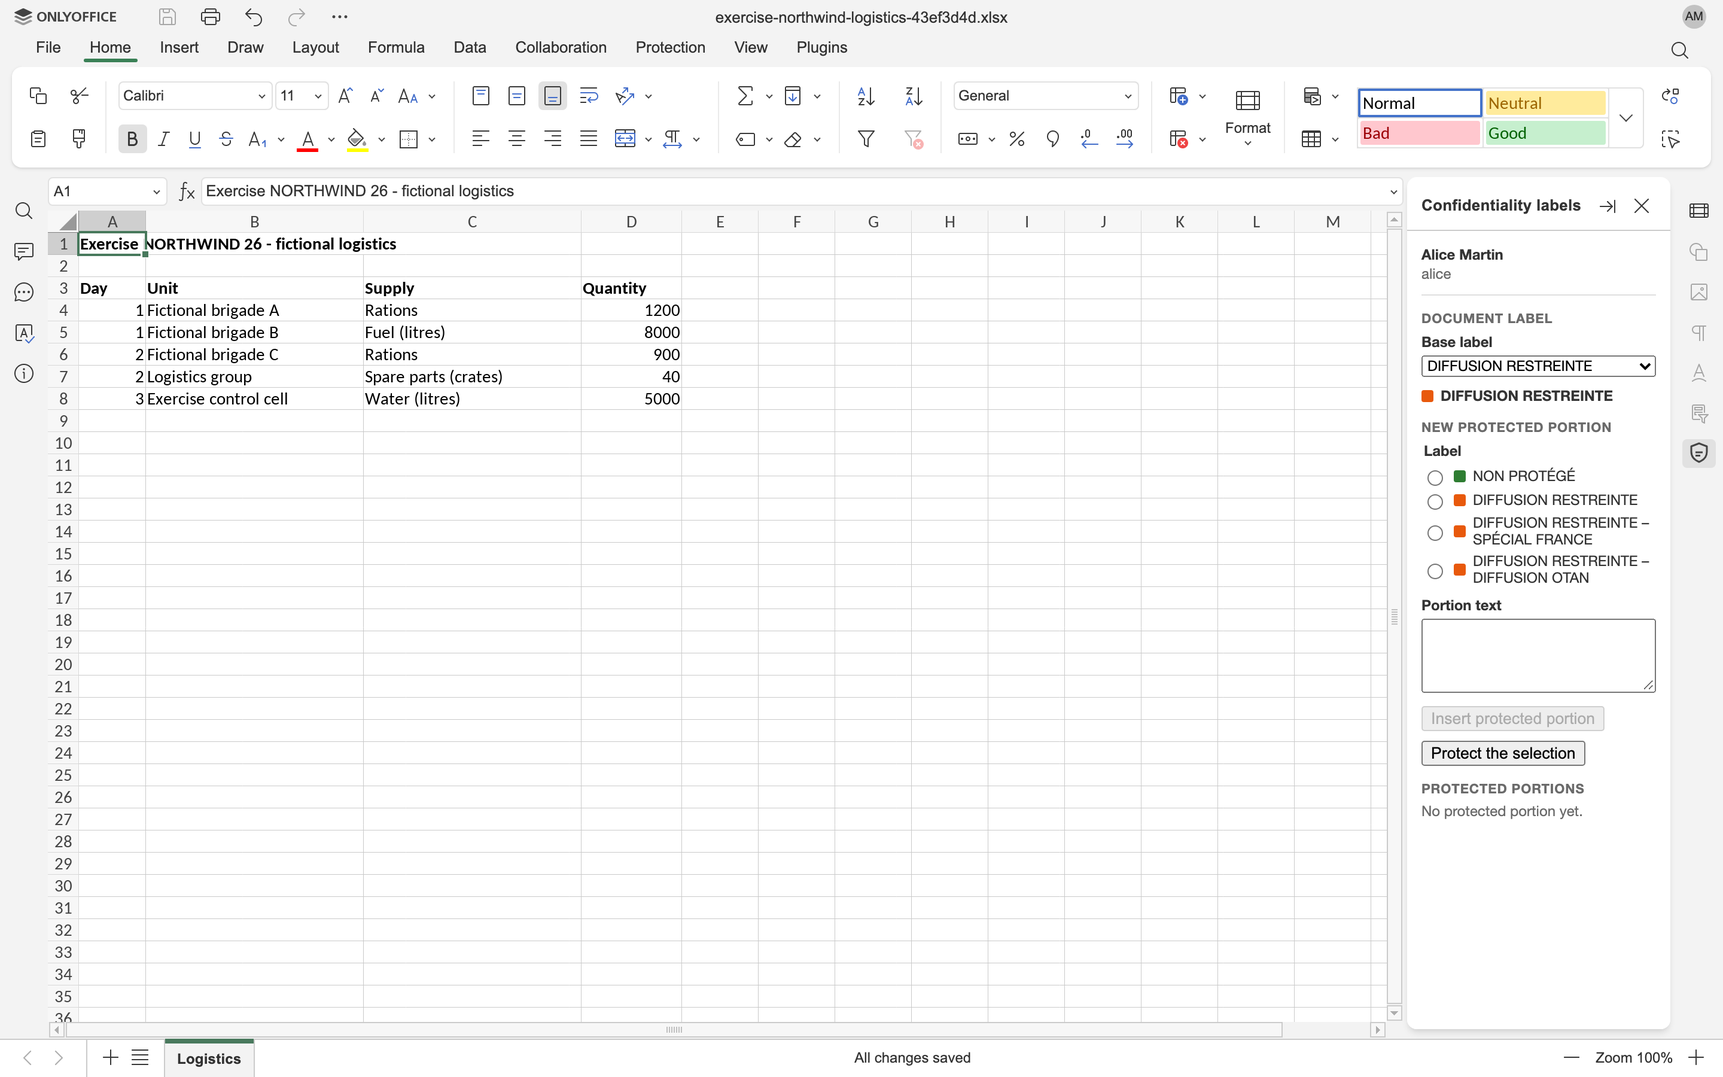
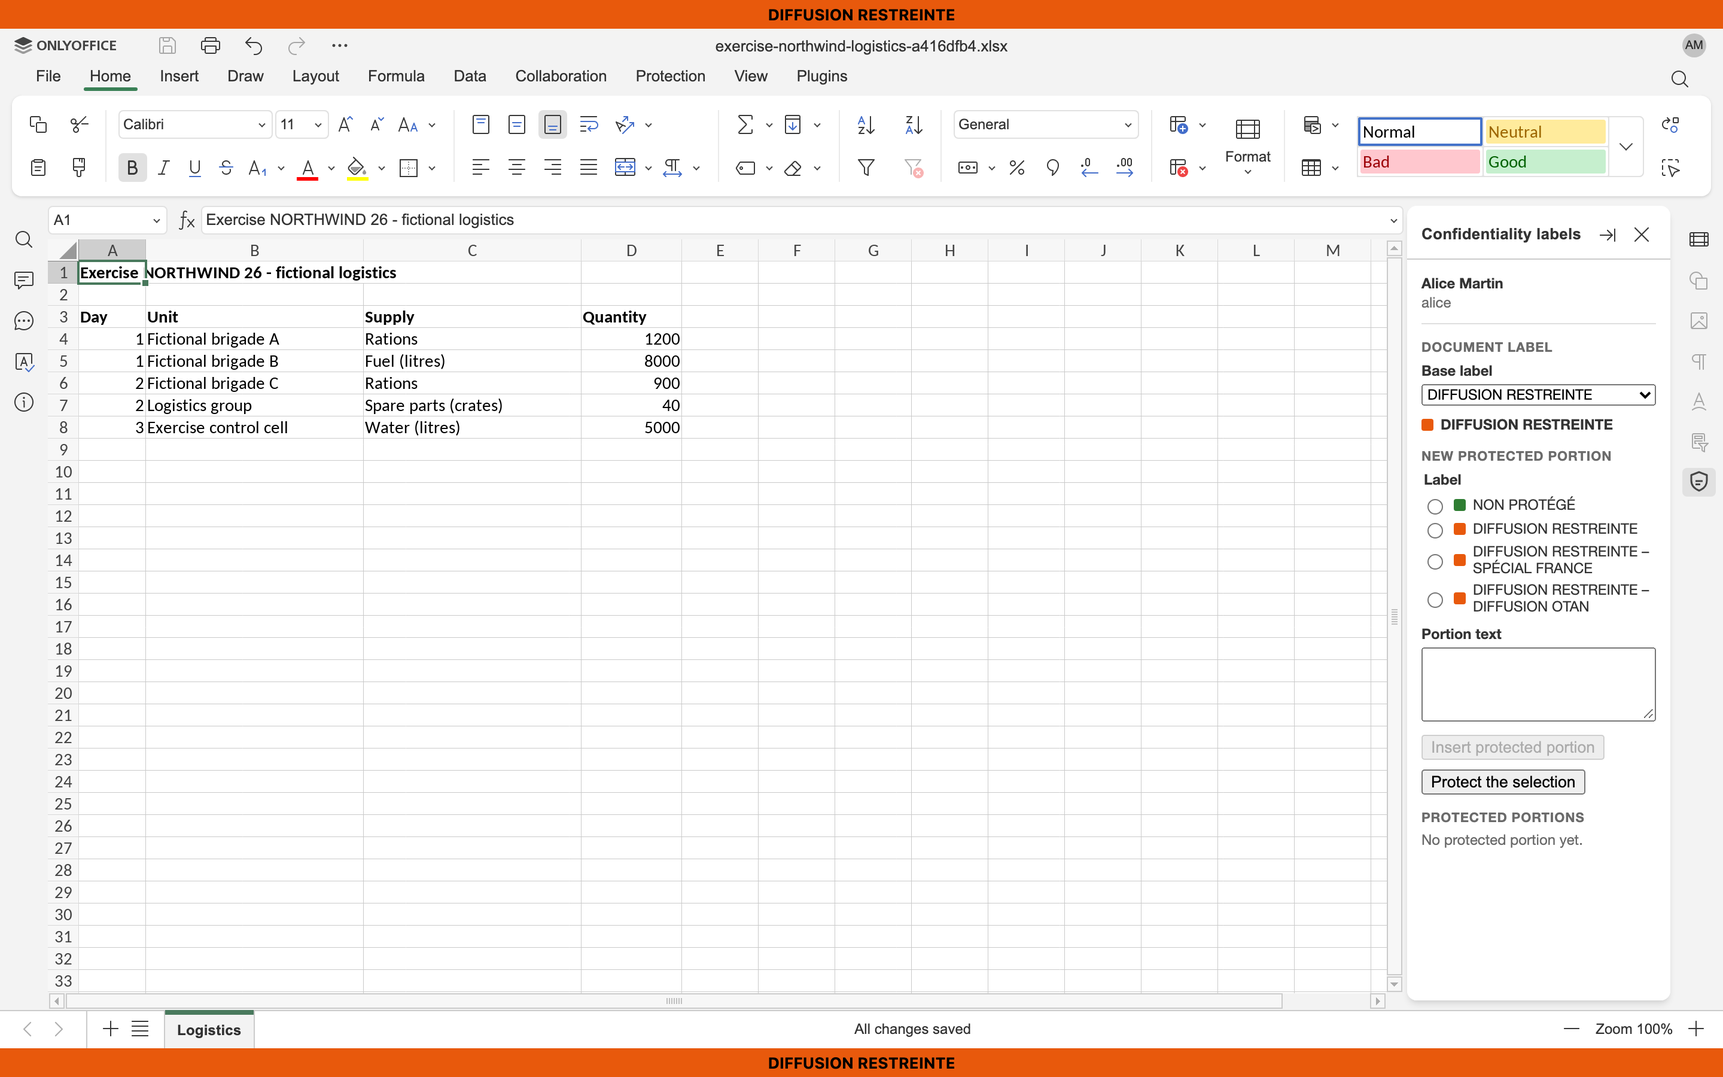
docs: Describe a workbook's screen marking
Refs #107

diff --git a/SECURITY.md b/SECURITY.md
@@ -57,8 +57,9 @@ These are known properties of the demonstrator, not vulnerabilities:
 - The plugin runs a build of the OpenTDF web SDK from a fork, which adds hybrid key wrapping until a release of the SDK includes it; [`plugin/vendor/README.md`](plugin/vendor/README.md) gives its commit and how to rebuild it.
 - In a workbook, a portion's placeholder is locked by an ONLYOFFICE user protected range that lists no editor: each co-author's editor refuses typing, pasting, cutting, filling, sorting or deleting rows over it, but the lock is an ONLYOFFICE extension, which each browser enforces for its own user, and which Microsoft Excel keeps without enforcing. A co-author can still delete a whole sheet, and with it its portions' ranges, which the next save logs as removed. The panel writes a placeholder before it locks it. To change or delete a portion, it lifts the lock in its own browser only, for the command that writes, outside the editor's history, and to delete one it removes the range, through the editor's internal model, which ONLYOFFICE does not document and a new version may change; it reads the ranges, checks the selected cells and finds the active cell through that model too. The end-to-end tests guard the lift, the lock that comes back after it, and the removal; should a new version refuse to remove a range, the panel writes nothing and the portion stays whole. Anyone able to run commands in the editor could lift the lock the same way. Formulas that reference a placeholder see its marking, never the portion's text, which stays in the envelope.
 - While a co-author types in a cell of a workbook, their editor holds back every change that reaches them until they leave the cell, a portion's raise to a label beyond their clearance included: their panel keeps showing the text it showed them until then. What they write stays in their browser as well; a portion change held back for more than the minute the policy service remembers its version would let another author change the same portion, and the workbook would keep both versions. The panel therefore writes nothing into a workbook while its author types in a cell, which it learns through the editor's internal model. In co-editing, the spreadsheet editor's undo takes back an author's command only when it can reverse all of it: a change of a portion's text comes undone, with its earlier envelope and version, while an insertion, a change of label or a deletion stays whole.
-- A workbook's page marking sits in its sheets' headers and footers, which the spreadsheet editor shows only when printing, in print preview and in PDF: on screen, only the panel shows the document label. Any author can change or remove the header and footer strings from the editor's dialog, which no lock prevents; the next author's panel to read them writes them again. The panel writes them through the editor's internal model, as it reads the ranges. A left or right section, which the panel keeps as long as the string fits within Microsoft Excel's 255 characters, can run into the centred marking once printed, even a short one when the marking is long and the page narrow: on A4 in portrait, the demo template's sections ran into the marking of a workbook that holds a more restrictive portion, hence a template that prints in landscape. A marking too long to fit within 255 characters on its own, which no label of the demo policy has, is written whole, and Excel may not keep it.
+- A workbook's page marking sits in its sheets' headers and footers, which the spreadsheet editor shows only when printing, in print preview and in PDF: on screen, the portal's page shows the document label above and below the editor, as the workbook's screen marking. Any author can change or remove the header and footer strings from the editor's dialog, which no lock prevents; the next author's panel to read them writes them again. The panel writes them through the editor's internal model, as it reads the ranges. A left or right section, which the panel keeps as long as the string fits within Microsoft Excel's 255 characters, can run into the centred marking once printed, even a short one when the marking is long and the page narrow: on A4 in portrait, the demo template's sections ran into the marking of a workbook that holds a more restrictive portion, hence a template that prints in landscape. A marking too long to fit within 255 characters on its own, which no label of the demo policy has, is written whole, and Excel may not keep it.
 - Protecting existing content protects it from then on only: it went through ONLYOFFICE in clear before, as the panel warns its author before they confirm. The Document Server's working files of the editing session, co-authors' browsers, the stored file until the next save, downloads and other copies made before keep it, and the editor's undo brings it back into the document. In a text document, the panel protects whole paragraphs as plain text: their formatting, list numbering, bookmarks, hyperlinks and unlocked inline content controls go with them. It refuses paragraphs that hold a table, an image or a shape, part of a portion, a page marking or another locked content control, and the comments and notes that it finds through the editor's internal model: a comment whose marks lie inside the paragraphs, which would stay in clear, and a note, which would be lost. A comment that spans them from outside stays, in clear, as do the results that fields elsewhere, such as a table of contents or a cross-reference, last computed from them, until they are updated. The paragraphs leave the document even while changes are tracked, with no tracked deletion that would keep their text; the portion's placeholder then shows as a tracked insertion. In a workbook, the panel protects the cells' displayed values, rows of tab-separated cells, and their formats, data validation and conditional formatting go with them. It refuses cells that hold a comment, which would stay in clear, a formula, whose result depends on other cells, a merge, a portion, a table or a pivot table; other parts of the workbook that copy cell values, such as the cache of a pivot table built elsewhere on them, keep them. The panel reads the cells through the editor's builder API and checks them through its internal model, as for an insertion. In either editor, it compares the content again, in the command that writes, with what it read, and writes nothing if it changed.
+- A workbook's screen marking shows, as the page opens, the document label that the stored file names, then each label the panel computes and sends to the page: a label changed since the last save shows once the panel has started, and a page whose panel was closed, or could not compute a label, keeps the last label it received. The label the stored file names at the page's opening is the one the panel last wrote beside the base label, which saves do not compute again: after concurrent changes, it can lag behind the label of the signed binding until a panel writes it again. The page believes messages from its own origin only, which the panel's page shares and the Document Server's frames and other sites do not; any page of the portal's origin could change it, as it could change anything the portal shows. The screen marking writes nothing into the workbook, and Microsoft Excel shows none.
 - Anyone able to edit a document can change a portion's label in clear, which the document label, the placeholder in the body and refused readers rely on. Only readers who open the envelope see the label bound to it, with a warning; someone who holds the envelope's key could even replace that bound label.
 - The signature of the document label's binding proves that the platform computed the label from the labels in clear, and bound it to the package parts it references, when it stored the file; it proves nothing of who wrote the content. The policy service signs whatever the saved labels in clear give, so a label lowered in the editor is signed too, and logged. The signature covers the parts ADatP-4778.2 lists; not the package's relationships (`_rels`) and content types (`[Content_Types].xml`), nor its other parts, the Custom XML parts among them: the base label's part, and the portions' parts, whose envelopes bind their labels. In a workbook, the signature also covers the parts that can hold its content that Tables 5-2 and 5-3 leave out: threaded comments (`xl/threadedComments/`), which repeat a comment's text, and their authors (`xl/persons/`); drawings and legacy VML drawings (`xl/drawings/`), which place charts, pictures and text boxes on a sheet; SmartArt diagrams (`xl/diagrams/`) and the charts of Excel 2016 (`xl/charts/chartEx<N>.xml`); pivot caches (`xl/pivotCache/`), which copy cell values; tables (`xl/tables/`), slicers and their caches (`xl/slicers/`, `xl/slicerCaches/`); links to other workbooks, with the values they cache (`xl/externalLinks/`); rich values (`xl/richData/`) and cell metadata (`xl/metadata.xml`); chart sheets (`xl/chartsheets/`); queries and their connections (`xl/queryTables/`, `xl/connections.xml`); and embedded objects (`xl/embeddings/`). It leaves out the theme (`xl/theme/`), the calculation chain (`xl/calcChain.xml`) and printer settings (`xl/printerSettings/`), which hold none. In a text document, the parts that Tables 5-2 and 5-3 leave out are not covered yet, the people who comment (`word/people.xml`), the glossary (`word/glossary/`) and embedded objects (`word/embeddings/`) among them. A verifier must digest again the package parts that the signature's `Manifest` references: `xmlsec1` reports them but still exits with 0 when one of them no longer matches. A file that the policy service could not sign is stored unsigned, and the failure logged; its binding then references the parts the panel named, those a document of its format saved by ONLYOFFICE always holds, until a save signs it. The demo key and its self-signed certificate live in `deploy/.env`, not in a hardware security module; a deployment would use a key and a certificate its PKI issues.
 - The sensitivity label that the policy service writes at each save, with a label mapping, is metadata that Office reads and a Microsoft 365 tenant applies its rules to: it encrypts nothing, and says nothing of the protected portions. It follows the document label only, without its informative categories, so a document that holds more restrictive portions carries the sensitivity label of its base label. The binding signature covers it, since it sits in the custom properties part. Editors can delete it in the editor's file information; the next save writes it again. The editor never sees the properties the policy service writes, so the portal sends the stored file's custom properties with each save, to keep the label's date and action id while it stays; when that part exceeds about 6 KB, it sends none and logs it, and the date and the action id then follow the saved file, which holds them as the editing session opened. Whether Word shows the label has not been checked with a real tenant. The platform writes no Sensitivity Label Information part (`docMetadata/LabelInfo.xml`), which ONLYOFFICE drops at each save and the signature does not cover; since Word, in a tenant that enables co-authoring of encrypted files, would show that part's label rather than the signed one, the portal logs a stored file that holds one whenever it serves it, with `Stored file holds a Sensitivity Label Information part`, and serves it all the same.

diff --git a/README.md b/README.md
@@ -47,7 +47,7 @@ The stack runs with Docker Compose: ONLYOFFICE Docs Community Edition, the OpenT
 - **Protecting existing content.** An author who finds content that calls for a restrictive label, paragraphs of a text document or cells of a workbook, selects it, picks a label and presses **Protect the selection**, in the panel or in the editor's context menu. The panel shows the content as the portion will hold it, the plain text of the whole paragraphs the selection touches, or the cells' displayed values in rows of tab-separated cells as a copy from the grid gives them, and warns that it already went through ONLYOFFICE in clear: it is protected from then on only, and copies made before, such as the editor's working files of the session, keep it. Once the author confirms, the panel encrypts it as the text of a new portion, and one editor command puts the portion's placeholder where the paragraphs stood, or clears the cells and makes them its placeholder, as an insertion does. Paragraphs that hold a table, an image or a shape, part of a portion, a page marking or another locked content control, a comment, which would stay in clear, or a note, which would be lost, are refused; the paragraphs leave the document even while changes are tracked, since a tracked deletion would keep their text. Cells that hold a comment, a formula, which the author turns into its value first, a merge, a portion, a table or a pivot table, which clearing them would break, are refused, as is a selection of several blocks of cells. Nothing is written when the content changed since the panel read it. The journal records the protection, never the content.
 - **Page marking.** The document label's marking, centred, in bold and in its colour, at the top and the bottom of every page. The panel writes it with the document label, after an insertion, a change, a deletion or a new base label, in a locked content control of its own that opens every header and closes every footer, first page and even pages included; the rest of a template's header and footer stays. An author whose panel finds the page marking missing, moved, changed by hand or stale, in a document labelled before page markings existed for instance, writes it again.
 - **Co-editing.** Portions and the document label reach co-authors in real time, and concurrent insertions converge to the right label.
-- **Workbooks.** A workbook, created from the workbook template, opens in ONLYOFFICE's spreadsheet editor with the labelling panel, which gives it its base label and shows its document label as in a text document, and in its read-only viewer, on the left, as in the text viewer. The portal decides who opens a workbook, signs its binding, writes its sensitivity label, checks its signature and journals its base label changes as a text document's, and downloads it as XLSX. A protected portion goes into empty cells the author selects: the panel merges them into a placeholder that shows the portion's marking in its label's colour, bold and bordered, locked by an ONLYOFFICE user protected range that lets no one type into it through the editor ([ADR 0006](docs/adr/0006-a-workbook-portion-is-a-user-protected-range.md)); cells that hold a value, a merge or another portion are refused. The page marking goes into the centre of every sheet's headers and footers, first and even pages included, bold and in the label's colour, keeping their left and right sections within Microsoft Excel's 255 characters; the spreadsheet editor shows it only when printing, in print preview and in PDF, while the panel shows the document label on screen. Any author who can read a workbook's portion changes its text and its label, or deletes it, from the panel and under its portion lock, as in a text document; a deletion unmerges and clears its cells. The panel follows the selection, in the editor and in the viewer: it highlights the portion whose placeholder holds the active cell, the bubble shows that portion's text over the placeholder until the selection leaves it or Escape closes it, and a click on a portion in the panel selects its placeholder. Co-editing works as in a text document: portions, the document label and the page marking reach co-authors in real time, concurrent insertions converge to the right label, and a base label that excludes a co-author ends the editing session. While an author types in a cell, the spreadsheet editor holds back what they write and what reaches them until they leave the cell, so the panel writes nothing meanwhile and says why. An undo takes back a whole portion command; in co-editing, ONLYOFFICE takes back only a change of a portion's text, and leaves an insertion, a change of label or a deletion whole. A workbook is uploaded as a text document is, and keeps its portions.
+- **Workbooks.** A workbook, created from the workbook template, opens in ONLYOFFICE's spreadsheet editor with the labelling panel, which gives it its base label and shows its document label as in a text document, and in its read-only viewer, on the left, as in the text viewer. The portal decides who opens a workbook, signs its binding, writes its sensitivity label, checks its signature and journals its base label changes as a text document's, and downloads it as XLSX. A protected portion goes into empty cells the author selects: the panel merges them into a placeholder that shows the portion's marking in its label's colour, bold and bordered, locked by an ONLYOFFICE user protected range that lets no one type into it through the editor ([ADR 0006](docs/adr/0006-a-workbook-portion-is-a-user-protected-range.md)); cells that hold a value, a merge or another portion are refused. The page marking goes into the centre of every sheet's headers and footers, first and even pages included, bold and in the label's colour, keeping their left and right sections within Microsoft Excel's 255 characters; the spreadsheet editor shows it only when printing, in print preview and in PDF. On screen, the portal's page shows the document label above and below the editor, in its colour, as the workbook's screen marking: the label the stored file names as the page opens, then each one the panel computes, in the editor and in the viewer. Any author who can read a workbook's portion changes its text and its label, or deletes it, from the panel and under its portion lock, as in a text document; a deletion unmerges and clears its cells. The panel follows the selection, in the editor and in the viewer: it highlights the portion whose placeholder holds the active cell, the bubble shows that portion's text over the placeholder until the selection leaves it or Escape closes it, and a click on a portion in the panel selects its placeholder. Co-editing works as in a text document: portions, the document label and the page marking reach co-authors in real time, concurrent insertions converge to the right label, and a base label that excludes a co-author ends the editing session. While an author types in a cell, the spreadsheet editor holds back what they write and what reaches them until they leave the cell, so the panel writes nothing meanwhile and says why. An undo takes back a whole portion command; in co-editing, ONLYOFFICE takes back only a change of a portion's text, and leaves an insertion, a change of label or a deletion whole. A workbook is uploaded as a text document is, and keeps its portions.
 
 ### For readers
 

diff --git a/docs/walkthrough.md b/docs/walkthrough.md
@@ -78,7 +78,7 @@ The report's paragraph on transport turns out to be for French eyes only. Alice 
 
 ## 12. A workbook
 
-The same scenario goes on in a workbook. Alice creates one from the `exercise-northwind-logistics.xlsx` template, which opens in ONLYOFFICE's spreadsheet editor with the same labelling panel, and gives it the base label DIFFUSION RESTREINTE.
+The same scenario goes on in a workbook. Alice creates one from the `exercise-northwind-logistics.xlsx` template, which opens in ONLYOFFICE's spreadsheet editor with the same labelling panel, and gives it the base label DIFFUSION RESTREINTE. Above and below the editor, the portal's page shows the document label in its colour, the workbook's screen marking, which follows each label the panel computes.
 
 ![The spreadsheet editor, with the labelling panel and the document label DIFFUSION RESTREINTE](screenshots/walkthrough/12-workbook-base-label.png)
 
@@ -120,7 +120,7 @@ The last two rows of supplies turn out to be for French eyes only. Alice selects
 
 ## 19. The page marking of a workbook
 
-A workbook's page marking goes into the centre of every sheet's headers and footers, first and even pages included: the spreadsheet editor shows it only when printing, in the print preview (**File**, **Print**) and in a PDF, while the panel shows the document label on screen.
+A workbook's page marking goes into the centre of every sheet's headers and footers, first and even pages included: the spreadsheet editor shows it only when printing, in the print preview (**File**, **Print**) and in a PDF, while the screen marking shows the document label on screen.
 
 ![The print preview, with the page marking at the top and the bottom of the page](screenshots/walkthrough/19-workbook-print-preview.png)
 

diff --git a/docs/research/onlyoffice-spreadsheets.md b/docs/research/onlyoffice-spreadsheets.md
@@ -72,7 +72,9 @@ Conventions used below:
    and footers, coloured with `&K` codes. There is no public API, but the internal model reachable from `callCommand`
    records history and persists (Tested). Excel limits each string to 255 characters; ONLYOFFICE's dialog enforces
    255, its model and save path do not (Tested). They are drawn only when printing, in print preview and in PDF: **the
-   editor shows no page marking on screen** ([7](#7-page-marking-in-headers-and-footers)).
+   editor shows no page marking on screen** ([7](#7-page-marking-in-headers-and-footers)). The portal's page shows the
+   document label above and below the editor instead, as the workbook's screen marking, which the panel keeps up to
+   date by messages to the page (Implementation, #107).
 8. **Co-editing:** a plugin's command takes no cell lock, and the server relays changes without checking locks. In
    fast mode, the editor sends changes within 40 ms, but neither sends nor applies any while the local user is editing
    a cell. A command is one undo step; in view mode its writes are undone (Implementation,

diff --git a/CONTEXT.md b/CONTEXT.md
@@ -86,6 +86,10 @@ _Avoid_: global label, rollup
 The marking of the document label, repeated at the top and the bottom of every page. In a text document it sits in a place of its own that authors cannot edit; in a workbook, in the headers and footers of every sheet, which only printing and PDF show.
 _Avoid_: banner, header label
 
+**Screen marking**:
+The marking of a workbook's document label, shown above and below its editor on the portal's page, in the label's colour, since the spreadsheet editor shows the page marking only when printing.
+_Avoid_: banner
+
 **Journal**:
 The record of label changes: each change of a base label or of a protected portion, each deletion of a protected portion and each protection of existing content, made in the panel, with who made it; each upload, with the label read from the file and the base label it got; and each save that lowers a label or removes a protected portion, with who took part in the editing session. It never holds a portion's text.
 _Avoid_: audit trail, history
